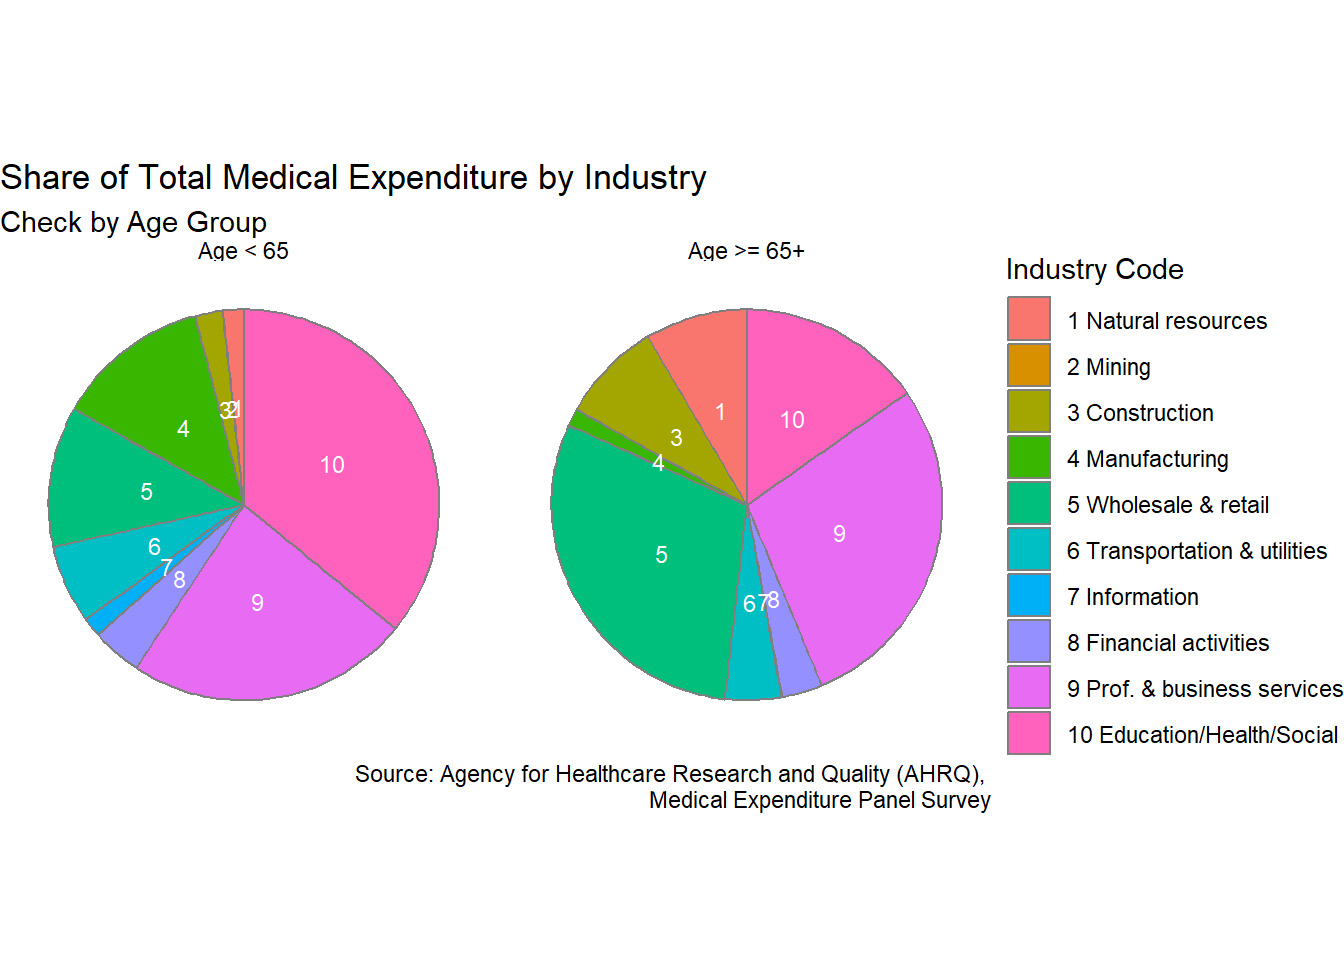
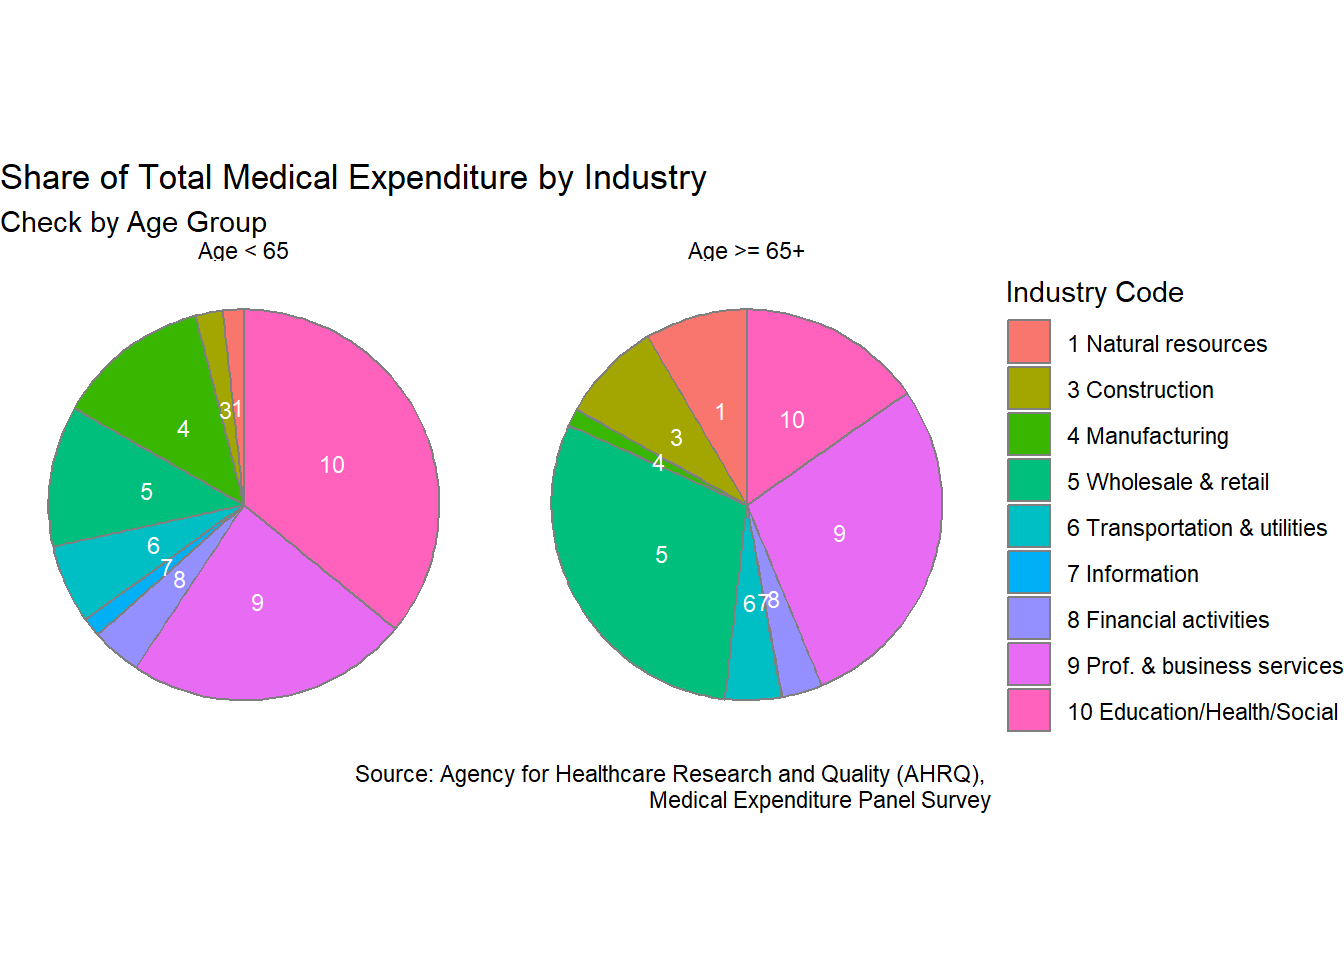
Adjust 4th visualization

Changed region(s): [[0.75, 0.25, 1.0, 0.8125]]

diff --git a/index.html b/index.html
@@ -2,7 +2,7 @@
 <html xmlns="http://www.w3.org/1999/xhtml" lang="en" xml:lang="en"><head>
 
 <meta charset="utf-8">
-<meta name="generator" content="quarto-1.8.24">
+<meta name="generator" content="quarto-1.8.25">
 
 <meta name="viewport" content="width=device-width, initial-scale=1.0, user-scalable=yes">
 
@@ -67,7 +67,7 @@ pre > code.sourceCode > span > a:first-child::before { text-decoration: underlin
 <script src="index_files/libs/quarto-html/tippy.umd.min.js"></script>
 <script src="index_files/libs/quarto-html/anchor.min.js"></script>
 <link href="index_files/libs/quarto-html/tippy.css" rel="stylesheet">
-<link href="index_files/libs/quarto-html/quarto-syntax-highlighting-dc55a5b9e770e841cd82e46aadbfb9b0.css" rel="stylesheet" id="quarto-text-highlighting-styles">
+<link href="index_files/libs/quarto-html/quarto-syntax-highlighting-7b89279ff1a6dce999919e0e67d4d9ec.css" rel="stylesheet" id="quarto-text-highlighting-styles">
 <script src="index_files/libs/bootstrap/bootstrap.min.js"></script>
 <link href="index_files/libs/bootstrap/bootstrap-icons.css" rel="stylesheet">
 <link href="index_files/libs/bootstrap/bootstrap-9e3ffae467580fdb927a41352e75a2e0.min.css" rel="stylesheet" append-hash="true" id="quarto-bootstrap" data-mode="light">
@@ -231,36 +231,37 @@ pre > code.sourceCode > span > a:first-child::before { text-decoration: underlin
 <span id="cb5-11"><a href="#cb5-11" aria-hidden="true" tabindex="-1"></a>  <span class="fu">group_by</span>(age65_lbl, INDCAT53) <span class="sc">|&gt;</span></span>
 <span id="cb5-12"><a href="#cb5-12" aria-hidden="true" tabindex="-1"></a>  <span class="fu">summarise</span>(<span class="at">exp_sum =</span> <span class="fu">sum</span>(TOTEXP22, <span class="at">na.rm =</span> <span class="cn">TRUE</span>), <span class="at">.groups =</span> <span class="st">"drop_last"</span>) <span class="sc">|&gt;</span></span>
 <span id="cb5-13"><a href="#cb5-13" aria-hidden="true" tabindex="-1"></a>  <span class="fu">group_by</span>(age65_lbl) <span class="sc">|&gt;</span></span>
-<span id="cb5-14"><a href="#cb5-14" aria-hidden="true" tabindex="-1"></a>  <span class="fu">mutate</span>(<span class="at">industry_code =</span> <span class="fu">parse_number</span>(<span class="fu">as.character</span>(INDCAT53))) <span class="sc">|&gt;</span></span>
-<span id="cb5-15"><a href="#cb5-15" aria-hidden="true" tabindex="-1"></a>  <span class="fu">filter</span>(industry_code <span class="sc">&lt;=</span> <span class="dv">10</span>) <span class="sc">|&gt;</span>    <span class="co">#filter main industries only</span></span>
-<span id="cb5-16"><a href="#cb5-16" aria-hidden="true" tabindex="-1"></a>  <span class="fu">mutate</span>(<span class="at">share =</span> exp_sum <span class="sc">/</span> <span class="fu">sum</span>(exp_sum))</span>
-<span id="cb5-17"><a href="#cb5-17" aria-hidden="true" tabindex="-1"></a></span>
-<span id="cb5-18"><a href="#cb5-18" aria-hidden="true" tabindex="-1"></a>industry_labels <span class="ot">&lt;-</span> <span class="fu">c</span>(</span>
-<span id="cb5-19"><a href="#cb5-19" aria-hidden="true" tabindex="-1"></a>  <span class="st">"1 Natural resources"</span>,<span class="st">"2 Mining"</span>,<span class="st">"3 Construction"</span>,<span class="st">"4 Manufacturing"</span>,</span>
-<span id="cb5-20"><a href="#cb5-20" aria-hidden="true" tabindex="-1"></a>  <span class="st">"5 Wholesale &amp; retail"</span>,<span class="st">"6 Transportation &amp; utilities"</span>,<span class="st">"7 Information"</span>,</span>
-<span id="cb5-21"><a href="#cb5-21" aria-hidden="true" tabindex="-1"></a>  <span class="st">"8 Financial activities"</span>,<span class="st">"9 Prof. &amp; business services"</span>,</span>
-<span id="cb5-22"><a href="#cb5-22" aria-hidden="true" tabindex="-1"></a>  <span class="st">"10 Education/Health/Social"</span>)</span>
-<span id="cb5-23"><a href="#cb5-23" aria-hidden="true" tabindex="-1"></a></span>
-<span id="cb5-24"><a href="#cb5-24" aria-hidden="true" tabindex="-1"></a>pie_graph <span class="sc">|&gt;</span></span>
-<span id="cb5-25"><a href="#cb5-25" aria-hidden="true" tabindex="-1"></a><span class="fu">ggplot</span>(<span class="fu">aes</span>(<span class="at">x =</span> <span class="st">""</span>, <span class="at">y =</span> share, <span class="at">fill =</span> <span class="fu">factor</span>(industry_code))) <span class="sc">+</span></span>
-<span id="cb5-26"><a href="#cb5-26" aria-hidden="true" tabindex="-1"></a>  <span class="fu">geom_col</span>(<span class="at">width =</span> <span class="dv">1</span>, <span class="at">color =</span> <span class="st">"grey50"</span>) <span class="sc">+</span></span>
-<span id="cb5-27"><a href="#cb5-27" aria-hidden="true" tabindex="-1"></a>  <span class="fu">coord_polar</span>(<span class="at">theta =</span> <span class="st">"y"</span>) <span class="sc">+</span></span>
-<span id="cb5-28"><a href="#cb5-28" aria-hidden="true" tabindex="-1"></a>  <span class="fu">facet_wrap</span>(<span class="sc">~</span> age65_lbl) <span class="sc">+</span></span>
-<span id="cb5-29"><a href="#cb5-29" aria-hidden="true" tabindex="-1"></a>  <span class="fu">geom_text</span>(<span class="fu">aes</span>(<span class="at">label =</span> industry_code), </span>
-<span id="cb5-30"><a href="#cb5-30" aria-hidden="true" tabindex="-1"></a>            <span class="at">position =</span> <span class="fu">position_stack</span>(<span class="at">vjust =</span> <span class="fl">0.5</span>),</span>
-<span id="cb5-31"><a href="#cb5-31" aria-hidden="true" tabindex="-1"></a>            <span class="at">size =</span> <span class="dv">3</span>, <span class="at">color =</span> <span class="st">"white"</span>) <span class="sc">+</span></span>
-<span id="cb5-32"><a href="#cb5-32" aria-hidden="true" tabindex="-1"></a>  <span class="fu">scale_fill_manual</span>(</span>
-<span id="cb5-33"><a href="#cb5-33" aria-hidden="true" tabindex="-1"></a>    <span class="at">values =</span> <span class="fu">hue_pal</span>()(<span class="dv">10</span>),</span>
-<span id="cb5-34"><a href="#cb5-34" aria-hidden="true" tabindex="-1"></a>    <span class="at">breaks =</span> <span class="fu">as.character</span>(<span class="dv">1</span><span class="sc">:</span><span class="dv">10</span>),</span>
-<span id="cb5-35"><a href="#cb5-35" aria-hidden="true" tabindex="-1"></a>    <span class="at">labels =</span> industry_labels,</span>
-<span id="cb5-36"><a href="#cb5-36" aria-hidden="true" tabindex="-1"></a>    <span class="at">name   =</span> <span class="st">"Industry Code"</span></span>
-<span id="cb5-37"><a href="#cb5-37" aria-hidden="true" tabindex="-1"></a>  ) <span class="sc">+</span></span>
-<span id="cb5-38"><a href="#cb5-38" aria-hidden="true" tabindex="-1"></a>  <span class="fu">labs</span>(<span class="at">title   =</span> <span class="st">"Share of Total Medical Expenditure by Industry"</span>,</span>
-<span id="cb5-39"><a href="#cb5-39" aria-hidden="true" tabindex="-1"></a>    <span class="at">subtitle=</span> <span class="st">"Check by Age Group"</span>,</span>
-<span id="cb5-40"><a href="#cb5-40" aria-hidden="true" tabindex="-1"></a>    <span class="at">caption =</span> <span class="st">"Source: Agency for Healthcare Research and Quality (AHRQ), </span></span>
-<span id="cb5-41"><a href="#cb5-41" aria-hidden="true" tabindex="-1"></a><span class="st">    Medical Expenditure Panel Survey"</span>) <span class="sc">+</span></span>
-<span id="cb5-42"><a href="#cb5-42" aria-hidden="true" tabindex="-1"></a>  <span class="fu">theme_void</span>() <span class="sc">+</span></span>
-<span id="cb5-43"><a href="#cb5-43" aria-hidden="true" tabindex="-1"></a>  <span class="fu">theme</span>(<span class="at">legend.position =</span> <span class="st">"right"</span>)</span></code></pre></div><button title="Copy to Clipboard" class="code-copy-button"><i class="bi"></i></button></div>
+<span id="cb5-14"><a href="#cb5-14" aria-hidden="true" tabindex="-1"></a>  <span class="fu">mutate</span>(<span class="at">industry_code =</span> <span class="fu">parse_number</span>(<span class="fu">as.character</span>(INDCAT53)),</span>
+<span id="cb5-15"><a href="#cb5-15" aria-hidden="true" tabindex="-1"></a>         <span class="at">industry_code =</span> <span class="fu">ifelse</span>(industry_code <span class="sc">==</span> <span class="dv">2</span>, <span class="cn">NA</span>, industry_code)) <span class="sc">|&gt;</span></span>
+<span id="cb5-16"><a href="#cb5-16" aria-hidden="true" tabindex="-1"></a>  <span class="fu">filter</span>(<span class="sc">!</span><span class="fu">is.na</span>(industry_code),industry_code <span class="sc">&lt;=</span> <span class="dv">10</span>) <span class="sc">|&gt;</span>    <span class="co">#filter main industries only</span></span>
+<span id="cb5-17"><a href="#cb5-17" aria-hidden="true" tabindex="-1"></a>  <span class="fu">mutate</span>(<span class="at">share =</span> exp_sum <span class="sc">/</span> <span class="fu">sum</span>(exp_sum))</span>
+<span id="cb5-18"><a href="#cb5-18" aria-hidden="true" tabindex="-1"></a></span>
+<span id="cb5-19"><a href="#cb5-19" aria-hidden="true" tabindex="-1"></a>industry_labels <span class="ot">&lt;-</span> <span class="fu">c</span>(</span>
+<span id="cb5-20"><a href="#cb5-20" aria-hidden="true" tabindex="-1"></a>  <span class="st">"1 Natural resources"</span>,<span class="st">"2 Mining"</span>,<span class="st">"3 Construction"</span>,<span class="st">"4 Manufacturing"</span>,</span>
+<span id="cb5-21"><a href="#cb5-21" aria-hidden="true" tabindex="-1"></a>  <span class="st">"5 Wholesale &amp; retail"</span>,<span class="st">"6 Transportation &amp; utilities"</span>,<span class="st">"7 Information"</span>,</span>
+<span id="cb5-22"><a href="#cb5-22" aria-hidden="true" tabindex="-1"></a>  <span class="st">"8 Financial activities"</span>,<span class="st">"9 Prof. &amp; business services"</span>,</span>
+<span id="cb5-23"><a href="#cb5-23" aria-hidden="true" tabindex="-1"></a>  <span class="st">"10 Education/Health/Social"</span>)</span>
+<span id="cb5-24"><a href="#cb5-24" aria-hidden="true" tabindex="-1"></a></span>
+<span id="cb5-25"><a href="#cb5-25" aria-hidden="true" tabindex="-1"></a>pie_graph <span class="sc">|&gt;</span></span>
+<span id="cb5-26"><a href="#cb5-26" aria-hidden="true" tabindex="-1"></a><span class="fu">ggplot</span>(<span class="fu">aes</span>(<span class="at">x =</span> <span class="st">""</span>, <span class="at">y =</span> share, <span class="at">fill =</span> <span class="fu">factor</span>(industry_code))) <span class="sc">+</span></span>
+<span id="cb5-27"><a href="#cb5-27" aria-hidden="true" tabindex="-1"></a>  <span class="fu">geom_col</span>(<span class="at">width =</span> <span class="dv">1</span>, <span class="at">color =</span> <span class="st">"grey50"</span>) <span class="sc">+</span></span>
+<span id="cb5-28"><a href="#cb5-28" aria-hidden="true" tabindex="-1"></a>  <span class="fu">coord_polar</span>(<span class="at">theta =</span> <span class="st">"y"</span>) <span class="sc">+</span></span>
+<span id="cb5-29"><a href="#cb5-29" aria-hidden="true" tabindex="-1"></a>  <span class="fu">facet_wrap</span>(<span class="sc">~</span> age65_lbl) <span class="sc">+</span></span>
+<span id="cb5-30"><a href="#cb5-30" aria-hidden="true" tabindex="-1"></a>  <span class="fu">geom_text</span>(<span class="fu">aes</span>(<span class="at">label =</span> industry_code), </span>
+<span id="cb5-31"><a href="#cb5-31" aria-hidden="true" tabindex="-1"></a>            <span class="at">position =</span> <span class="fu">position_stack</span>(<span class="at">vjust =</span> <span class="fl">0.5</span>),</span>
+<span id="cb5-32"><a href="#cb5-32" aria-hidden="true" tabindex="-1"></a>            <span class="at">size =</span> <span class="dv">3</span>, <span class="at">color =</span> <span class="st">"white"</span>) <span class="sc">+</span></span>
+<span id="cb5-33"><a href="#cb5-33" aria-hidden="true" tabindex="-1"></a>  <span class="fu">scale_fill_manual</span>(</span>
+<span id="cb5-34"><a href="#cb5-34" aria-hidden="true" tabindex="-1"></a>    <span class="at">values =</span> <span class="fu">hue_pal</span>()(<span class="dv">10</span>),</span>
+<span id="cb5-35"><a href="#cb5-35" aria-hidden="true" tabindex="-1"></a>    <span class="at">breaks =</span> <span class="fu">as.character</span>(<span class="dv">1</span><span class="sc">:</span><span class="dv">10</span>),</span>
+<span id="cb5-36"><a href="#cb5-36" aria-hidden="true" tabindex="-1"></a>    <span class="at">labels =</span> industry_labels,</span>
+<span id="cb5-37"><a href="#cb5-37" aria-hidden="true" tabindex="-1"></a>    <span class="at">name   =</span> <span class="st">"Industry Code"</span></span>
+<span id="cb5-38"><a href="#cb5-38" aria-hidden="true" tabindex="-1"></a>  ) <span class="sc">+</span></span>
+<span id="cb5-39"><a href="#cb5-39" aria-hidden="true" tabindex="-1"></a>  <span class="fu">labs</span>(<span class="at">title   =</span> <span class="st">"Share of Total Medical Expenditure by Industry"</span>,</span>
+<span id="cb5-40"><a href="#cb5-40" aria-hidden="true" tabindex="-1"></a>    <span class="at">subtitle=</span> <span class="st">"Check by Age Group"</span>,</span>
+<span id="cb5-41"><a href="#cb5-41" aria-hidden="true" tabindex="-1"></a>    <span class="at">caption =</span> <span class="st">"Source: Agency for Healthcare Research and Quality (AHRQ), </span></span>
+<span id="cb5-42"><a href="#cb5-42" aria-hidden="true" tabindex="-1"></a><span class="st">    Medical Expenditure Panel Survey"</span>) <span class="sc">+</span></span>
+<span id="cb5-43"><a href="#cb5-43" aria-hidden="true" tabindex="-1"></a>  <span class="fu">theme_void</span>() <span class="sc">+</span></span>
+<span id="cb5-44"><a href="#cb5-44" aria-hidden="true" tabindex="-1"></a>  <span class="fu">theme</span>(<span class="at">legend.position =</span> <span class="st">"right"</span>)</span></code></pre></div><button title="Copy to Clipboard" class="code-copy-button"><i class="bi"></i></button></div>
 <div class="cell-output-display">
 <div>
 <figure class="figure">
@@ -270,7 +271,7 @@ pre > code.sourceCode > span > a:first-child::before { text-decoration: underlin
 </div>
 </div>
 <p>Interpretation:</p>
-<p>This visualization aims to explore the change in health condition after retirement by all industries. Total medical expenditure (TOTEXP22) measures one’s health condition. Age 65 is when most people start getting retirement benefits, and most people retire after 65. The two pies reveals that people in Natural resources(1), Construction(3), Wholesale/retail(5), and Prof.&nbsp;&amp; business services(9) increase their medical expenditure drastically after 65. This sharp shift suggests that in certain specific industries, people’s health maybe deteriorates more rapidly after retirement. When making Medicare policies, policy makers should consider industrial differences and labor protection.</p>
+<p>This visualization aims to explore the change in health condition after retirement by all industries. Total medical expenditure (TOTEXP22) measures one’s health condition. Age 65 is when most people start getting retirement benefits, and most people retire after 65. The two pies reveals that people in Natural resources(1), Construction(3), Wholesale/retail(5), and Prof.&nbsp;&amp; business services(9) increase their medical expenditure drastically after 65. This sharp shift suggests that in certain specific industries, people’s health maybe deteriorates more rapidly after retirement. When making Medicare policies, policy makers should consider industrial differences and labor protection. I dropped mining industry (2), because it was collected by another round of survey.</p>
 
 </main>
 <!-- /main column -->
